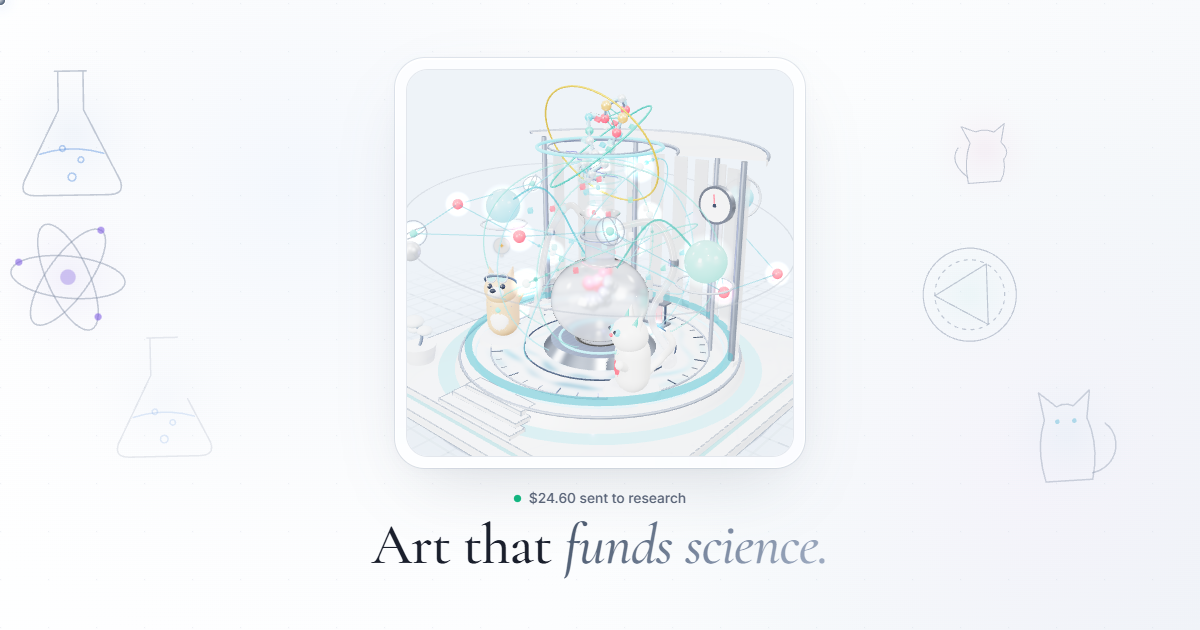
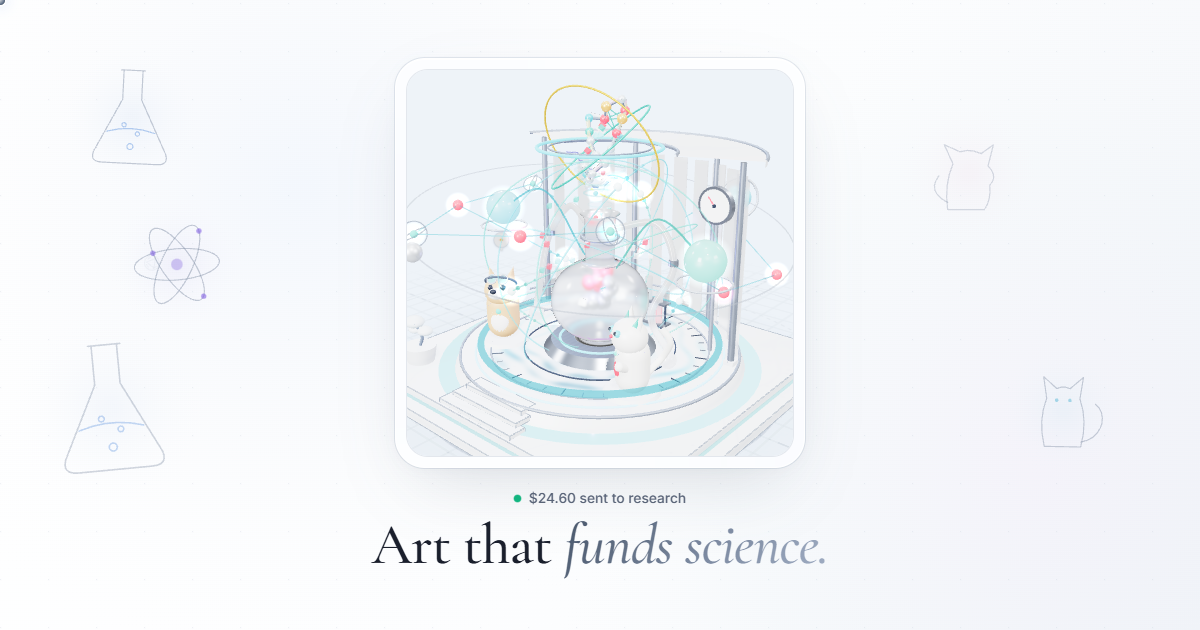
Add GitHub Actions CI workflow, BaseScan verifier, Cloudflare checks, and refreshed OG card

diff --git a/scripts/verifyBasescan.js b/scripts/verifyBasescan.js
@@ -1,0 +1,76 @@
+const hre = require("hardhat");
+require("dotenv").config();
+
+/**
+ * One-command BaseScan / Etherscan source-code verification helper.
+ * Verified source code prevents false positives in Blockaid, GoPlus, and Blowfish scanners.
+ *
+ * Usage:
+ *   COIN_ADDRESS=0x... RENDERER_ADDRESS=0x... NFT_ADDRESS=0x... npx hardhat run scripts/verifyBasescan.js --network baseSepolia
+ */
+async function verifySafe(address, constructorArguments, label) {
+  try {
+    await hre.run("verify:verify", { address, constructorArguments });
+    console.log(`[VERIFIED] ${label}: ${address}`);
+  } catch (err) {
+    const msg = String(err?.message || err);
+    if (msg.toLowerCase().includes("already verified")) {
+      console.log(`[OK] ${label} already verified: ${address}`);
+    } else {
+      console.error(`[WARN] ${label} verification failed:`, msg);
+    }
+  }
+}
+
+async function main() {
+  const coinAddr = process.env.COIN_ADDRESS || "0x4Da32048ab4Fc630FED0ECc5a48D6cE3c31Ea382";
+  const rendererAddr = process.env.RENDERER_ADDRESS || "0x5Bfc9ABf9f2aA81C38a11235A85E70501Fc6EAFb";
+  const nftAddr = process.env.NFT_ADDRESS || "0x6f6D4c12EF3b3de964E2C8C84Bed4eBb8a83677F";
+
+  const [deployer] = await hre.ethers.getSigners();
+  const maxSupply = BigInt(process.env.MAX_SUPPLY || "0");
+  const mintPriceWei = hre.ethers.parseEther(process.env.MINT_PRICE_ETH || "0.0004");
+  const royaltyBps = BigInt(process.env.ROYALTY_BPS || "500");
+  const devWallet = process.env.DEV_WALLET || deployer.address;
+  const liquidityVault = process.env.LIQUIDITY_VAULT || deployer.address;
+  const animationBaseUrl =
+    process.env.ANIMATION_BASE_URL || "https://alchemia-labs.s2celerity.workers.dev/animation.html";
+  const researchWallets = [
+    process.env.RESEARCH_WALLET_0 || deployer.address,
+    process.env.RESEARCH_WALLET_1 || deployer.address,
+    process.env.RESEARCH_WALLET_2 || deployer.address,
+    process.env.RESEARCH_WALLET_3 || deployer.address
+  ];
+
+  await verifySafe(coinAddr, [], "AlchemiaCoin ($ALCH)");
+  await verifySafe(rendererAddr, [], "AlchemiaRenderer");
+  await verifySafe(
+    nftAddr,
+    [
+      "Alchemia Labs",
+      "ALCHLAB",
+      maxSupply,
+      mintPriceWei,
+      royaltyBps,
+      devWallet,
+      liquidityVault,
+      coinAddr,
+      rendererAddr,
+      animationBaseUrl,
+      [
+        "Animal Welfare & Vet Science",
+        "Physics Research Grants",
+        "Open Medical Research",
+        "Clean Energy & Climate"
+      ],
+      ["Animal Health", "Physics", "Medicine", "Climate"],
+      researchWallets
+    ],
+    "AlchemiaImpactNFT"
+  );
+}
+
+main().catch((err) => {
+  console.error(err);
+  process.exitCode = 1;
+});

diff --git a/scripts/verifyLiveBaseSepolia.js b/scripts/verifyLiveBaseSepolia.js
@@ -97,6 +97,18 @@ async function main() {
       `  Lab #${id}: Tier ${snap.complexityTier} | SectorsMask ${snap.sectorsMask} | Rate ${ethers.formatEther(snap.miningRatePerHour)} ALCH/hr | Pending ${Number(ethers.formatEther(snap.pendingCoins)).toFixed(2)} ALCH | SVG valid: ${svg.includes("<svg")} | animUrl OK: ${parsed.animation_url.startsWith("https://")}`
     );
   }
+
+  console.log("\n=== LIVE CLOUDFLARE ENDPOINTS ===");
+  for (const url of [
+    "https://alchemia-labs.s2celerity.workers.dev/",
+    "https://alchemia-labs.s2celerity.workers.dev/animation.html",
+    "https://alchemia-labs.s2celerity.workers.dev/favicon.svg",
+    "https://alchemia-labs.s2celerity.workers.dev/og-card.png"
+  ]) {
+    const res = await fetch(url);
+    console.log(`  [${res.status}] ${url}`);
+    if (!res.ok) process.exitCode = 1;
+  }
 }
 
 main().catch((err) => {
